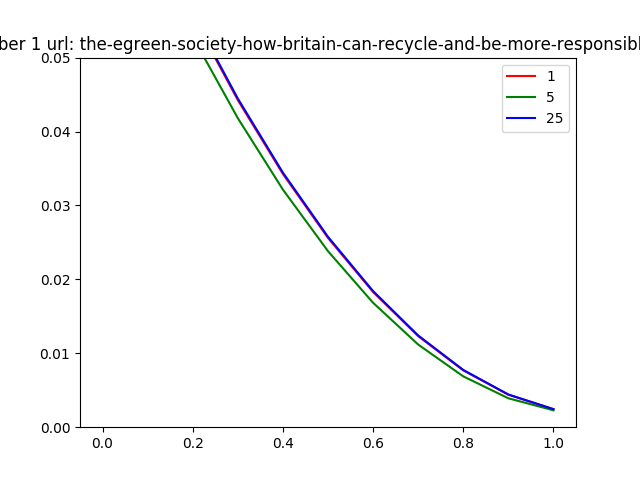
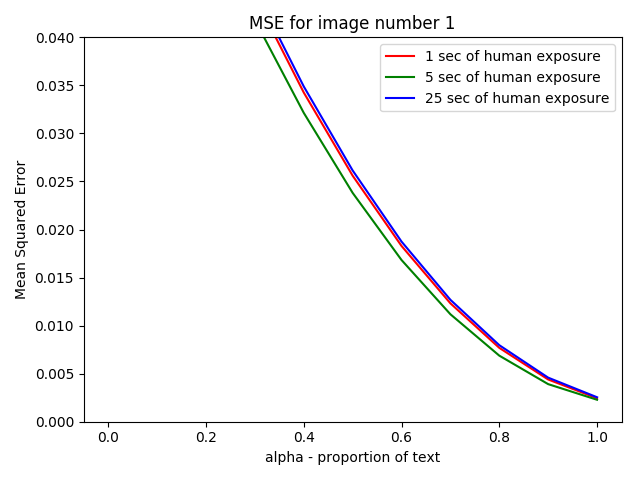
update the results and rename meias notebook to be more informative

diff --git a/minimize_divergence.py b/minimize_divergence.py
@@ -107,9 +107,9 @@ def get_image():
             id_ = url_to_id[stuff[0]]
             cat1, cat2, cat3 = int(stuff[2]), int(stuff[3]), int(stuff[4])
             if cat1 in images[id_]:
-                images[id_][cat1]+= 5
+                images[id_][cat1]+= 2
             if cat2 in images[id_]:
-                images[id_][cat2]+= 2
+                images[id_][cat2]+= 1
             if cat3 in images[id_]:
                 images[id_][cat3]+= 0
     for im, dist in images.items():
@@ -161,23 +161,31 @@ for im in range(NUM_IMAGES):
     for time, im_dist in human.items():
         #for im, dist_ in im_dist.items():
         dist_ = im_dist[im]
-        plt.bar([g+w*width for g in grid_number], dist_.values(), width, color=colors[w], label=f'human for # {im} for {time} seconds')
+        plt.bar([g+w*width for g in grid_number], dist_.values(), width, color=colors[w],
+                label=f'human for {time} seconds')
         w+=1
-    plt.title(f'image number {im} url: {id_to_url[str(im)]}')
+    plt.title(f'PDF of distributions for image number {im}')
     plt.xticks(grid_number, [categories[i] for i in grid_number], rotation='vertical')
-    plt.bar([g+4*width for g in grid_number], image_dist[im].values(), width, color=colors[3], label=f'image for # {im}')
-    plt.bar([g+3*width for g in grid_number], text_dist[im].values(), width, color=colors[4], label=f'text for # {im}')
+    plt.bar([g+4*width for g in grid_number], image_dist[im].values(), width, color=colors[3],
+            label=f'image')
+    plt.bar([g+3*width for g in grid_number], text_dist[im].values(), width, color=colors[4],
+            label=f'text from LDA')
     plt.legend()
     plt.tight_layout()
+    plt.xlabel(f'categories')
+    plt.ylabel(f'probability')
     plt.plot()
     plt.savefig(f'results/distribution_im{im}.png')
     plt.close()
 
-    plt.title(f'MSE for image number {im} url: {id_to_url[str(im)]}')
-    plt.plot(alpha_values, alphas_i_mse[im][1], label='1', color='red')
-    plt.plot(alpha_values, alphas_i_mse[im][5], label='5', color='green')
-    plt.plot(alpha_values, alphas_i_mse[im][25], label='25', color='blue')
-    plt.ylim(0, .05)
+    plt.title(f'MSE for image number {im}')
+    plt.plot(alpha_values, alphas_i_mse[im][1], label='1 sec of human exposure', color='red')
+    plt.plot(alpha_values, alphas_i_mse[im][5], label='5 sec of human exposure', color='green')
+    plt.plot(alpha_values, alphas_i_mse[im][25], label='25 sec of human exposure', color='blue')
+    plt.ylim(0, .04)
+    plt.xlabel(f'alpha - proportion of text')
+    plt.ylabel(f'Mean Squared Error')
+    plt.tight_layout()
     plt.legend()
     plt.plot()
     plt.savefig(f'results/mse_im{im}.png')
@@ -202,7 +210,10 @@ for j, i in enumerate(INTERVALS):
     print(f'{opt_alphas_mse[i]} is optimal for {i} seconds with mse loss')
     print(f'mse: {loss(text_dist, image_dist, human[i], opt_alphas_mse[i], list(range(NUM_IMAGES)), mse)}')
     #plt.plot(alpha_values, alphas_div[i], label=f'{i} div', color=colors[-j-1])
-    plt.plot(alpha_values, alphas_mse[i], label=f'{i} mse', color=colors[j])
+    plt.plot(alpha_values, alphas_mse[i], label=f'{i} sec of human exposure', color=colors[j])
+plt.title('Average Mean Squared Error across all 12 Images')
+plt.xlabel(f'alpha value (proportion that is text)')
+plt.ylabel(f'Mean Squared Error')
 plt.legend()
 plt.plot()
 plt.savefig(f'results/loss_all_images_averaged.png')
